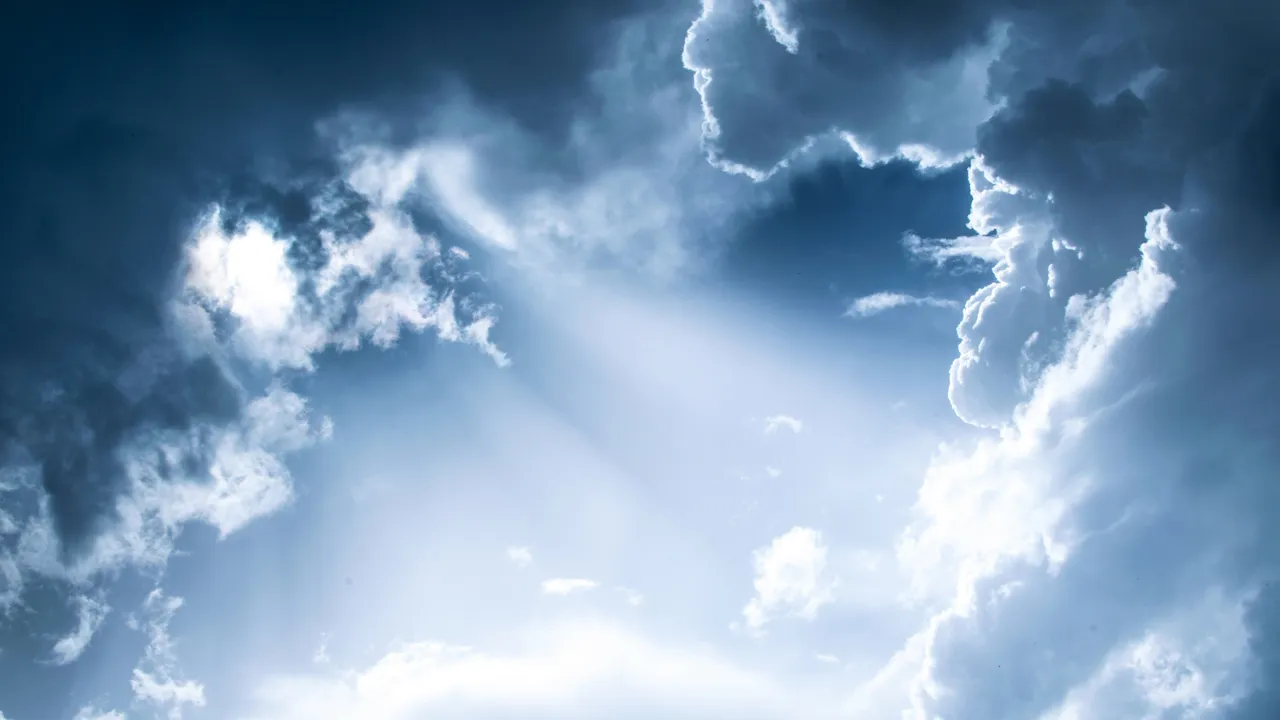
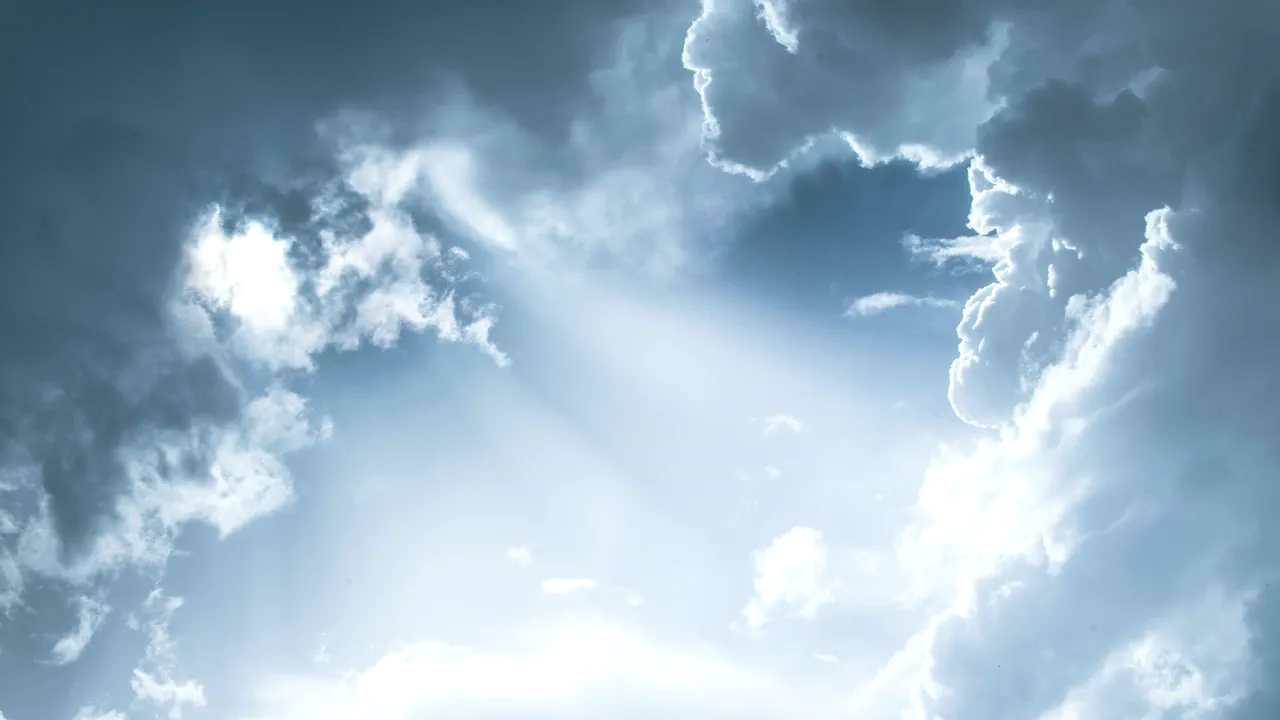
Fly through every chapter: lighter veil, scroll zoom, cloud bank
Each chapter's sky now zooms with its own scroll progress, a soft cloud
bank rises past the camera, and the veil is lighter so the photos show.
New skies for Experience, Work and Skills; the ascent gains an orbit
layer. Hover glows no longer cause sideways scroll on narrow screens.

diff --git a/site/css/site.css b/site/css/site.css
@@ -294,14 +294,19 @@ p { margin: 0; text-wrap: pretty; }
 }
 
 /* ---------- Atmosphere: fixed photographic layer under every chapter ---------- */
-[data-env="sky"] { --veil: rgba(238, 243, 248, .80); }
+[data-env="sky"] { --veil: rgba(238, 243, 248, .6); }
 [data-env="space"] { --veil: rgba(5, 7, 12, .74); }
 html { background: var(--space-ground); }
+main { overflow-x: clip; } /* hover glows spill 60px past edge elements; clip (not hidden) keeps sticky working */
 .atmos { position: fixed; inset: 0; z-index: -1; background: var(--sky-ground); overflow: hidden; }
-.atmos__img { position: absolute; inset: 0; width: 100%; height: 100%; object-fit: cover; opacity: 0; transform: scale(1.04); transition: opacity 2s var(--ease); will-change: opacity; }
+/* transform is set per frame from scroll in site.js (no transition: a transform transition made it jitter) */
+.atmos__img { position: absolute; inset: 0; width: 100%; height: 100%; object-fit: cover; opacity: 0; transform: scale(1.04); transform-origin: 50% 58%; transition: opacity 2s var(--ease); will-change: opacity, transform; }
 .atmos__img.is-on { opacity: 1; }
 .atmos.is-space { background: var(--space-ground); }
-@media (prefers-reduced-motion: reduce) { .atmos__img { transform: none; } }
+/* foreground cloud bank rising past the camera in every chapter */
+.atmos__fore { position: absolute; left: -5%; bottom: 0; width: 110%; height: 70%; max-width: none; object-fit: cover; opacity: 0; pointer-events: none; will-change: opacity, transform;
+  -webkit-mask-image: linear-gradient(transparent, #000 48%); mask-image: linear-gradient(transparent, #000 48%); }
+@media (prefers-reduced-motion: reduce) { .atmos__img { transform: none !important; } .atmos__fore { display: none; } }
 
 /* ---------- Scroll reveals, made visible: masked heading rise, staggered pop-up, image unveil ---------- */
 .js .rv { opacity: 0; transform: translate3d(0, 52px, 0) scale(.985); transition: opacity 1s var(--ease) var(--d, 0ms), transform 1.1s var(--ease) var(--d, 0ms); }
@@ -321,7 +326,7 @@ html { background: var(--space-ground); }
   -webkit-mask-image: linear-gradient(transparent, #000 45%); mask-image: linear-gradient(transparent, #000 45%);
   transform: translate3d(0, calc(var(--hp, 0) * -34vh), 0) scale(calc(1 + var(--hp, 0) * .3)); will-change: transform, opacity; }
 .hero__fog img { width: 100%; height: 100%; object-fit: cover; filter: brightness(1.15) contrast(1.1); }
-.zoomtrip { position: relative; height: 340vh; background: var(--space-ground); }
+.zoomtrip { position: relative; height: 440vh; background: var(--space-ground); }
 .zt__stage { position: sticky; top: 0; height: 100vh; height: 100svh; overflow: hidden; }
 .zt__layer { position: absolute; inset: 0; width: 100%; height: 100%; object-fit: cover; opacity: 0; will-change: transform, opacity; }
 .zt__layer[data-i="0"] { opacity: 1; }

diff --git a/site/index.html b/site/index.html
@@ -28,11 +28,12 @@
 <div class="atmos" aria-hidden="true">
   <img class="atmos__img " data-for="journey" data-src="assets/img/light-rays-1280.webp" data-src-lg="assets/img/light-rays-2560.webp" alt="">
   <img class="atmos__img " data-for="expertise" data-src="assets/img/sky-above-1280.webp" data-src-lg="assets/img/sky-above-2560.webp" alt="">
-  <img class="atmos__img" data-for="work" data-src="assets/img/pale-wisps-1280.webp" data-src-lg="assets/img/pale-wisps-2560.webp" alt="">
-  <img class="atmos__img" data-for="skills" data-src="assets/img/soft-cumulus-1280.webp" data-src-lg="assets/img/soft-cumulus-2560.webp" alt="">
-  <img class="atmos__img" data-for="experience" data-src="assets/img/orb-astronaut-1280.webp" data-src-lg="assets/img/orb-astronaut-2560.webp" alt="">
+  <img class="atmos__img" data-for="work" data-src="assets/img/rocket-plume-1280.webp" data-src-lg="assets/img/rocket-plume-2560.webp" alt="">
+  <img class="atmos__img" data-for="skills" data-src="assets/img/cloud-carpet-1280.webp" data-src-lg="assets/img/cloud-carpet-2560.webp" alt="">
+  <img class="atmos__img" data-for="experience" data-src="assets/img/astronaut-cliff-1280.webp" data-src-lg="assets/img/astronaut-cliff-2560.webp" alt="">
   <img class="atmos__img " data-for="beyond" data-src="assets/img/breakthrough-1280.webp" data-src-lg="assets/img/breakthrough-2560.webp" alt="">
   <img class="atmos__img " data-for="contact" data-src="assets/img/cloud-sea-1280.webp" data-src-lg="assets/img/cloud-sea-2560.webp" alt="">
+  <img class="atmos__fore" data-src="assets/img/soft-cumulus-1280.webp" data-src-lg="assets/img/soft-cumulus-2560.webp" alt="">
 </div>
 
 <header class="nav" data-nav>
@@ -242,9 +243,11 @@
       <img class="zt__layer" data-i="0" src="assets/img/peaks-1280.webp" srcset="assets/img/peaks-1280.webp 1280w, assets/img/peaks-2560.webp 2560w" sizes="100vw" alt="" decoding="async">
       <img class="zt__layer" data-i="1" src="assets/img/rays-above-1280.webp" srcset="assets/img/rays-above-1280.webp 1280w, assets/img/rays-above-2560.webp 2560w" sizes="100vw" alt="" decoding="async">
       <img class="zt__layer" data-i="2" src="assets/img/stars-clouds-1280.webp" srcset="assets/img/stars-clouds-1280.webp 1280w, assets/img/stars-clouds-2560.webp 2560w" sizes="100vw" alt="" decoding="async">
+      <img class="zt__layer" data-i="3" src="assets/img/earth-orbit-1280.webp" srcset="assets/img/earth-orbit-1280.webp 1280w, assets/img/earth-orbit-2560.webp 2560w" sizes="100vw" alt="" decoding="async">
       <p class="zt__cap" data-i="0">Above the clouds.</p>
       <p class="zt__cap" data-i="1">Through the light.</p>
-      <p class="zt__cap" data-i="2">Into the work.</p>
+      <p class="zt__cap" data-i="2">Past the stars.</p>
+      <p class="zt__cap" data-i="3">Into the work.</p>
     </div>
   </section>
 

diff --git a/site/js/site.js b/site/js/site.js
@@ -80,7 +80,7 @@
   }
   const log = $('[data-log]'), bands = $$('.band img'), mist = $('.mist');
   // atmosphere: one fixed photograph per chapter; each loads only when its chapter approaches
-  const atmos = $('.atmos'), aImgs = $$('.atmos__img'), aSecs = aImgs.map((im) => document.getElementById(im.dataset.for));
+  const atmos = $('.atmos'), fore = $('.atmos__fore'), aImgs = $$('.atmos__img'), aSecs = aImgs.map((im) => document.getElementById(im.dataset.for));
   const big = () => innerWidth * Math.min(2, devicePixelRatio || 1) > 1500;
   const load = (im) => { if (!im.getAttribute('src')) im.src = big() ? im.dataset.srcLg : im.dataset.src; };
   const toast = $('[data-toast]');
@@ -152,10 +152,19 @@
     }
     let on = -1; aR.forEach((r, i) => { if (r.top < vh * 0.6 && r.bottom > vh * 0.4) on = i; });
     if (on < 0) on = lastOn; else lastOn = on;
-    aR.forEach((r, i) => { if (r.top < vh * 2 && r.bottom > -vh) load(aImgs[i]); });
+    aR.forEach((r, i) => { if (r.top < vh * 2 && r.bottom > -vh) { load(aImgs[i]); if (fore && !reduce) load(fore); } });
+    // each chapter flies through its own sky: zoom follows that chapter's scroll progress directly (no lerp)
+    const prog = (r) => clamp((vh - r.top) / (vh + r.height));
     aImgs.forEach((im, i) => {
       im.classList.toggle('is-on', i === on);
+      const r = aR[i];
+      if (!reduce && r.top < vh * 2 && r.bottom > -vh) { const p = prog(r); im.style.transform = `scale(${(1.04 + p * .26).toFixed(4)}) translate3d(0, ${(-p * 2.5).toFixed(2)}%, 0)`; }
     });
+    if (fore && !reduce && on > -1) {
+      const q = prog(aR[on]);
+      fore.style.opacity = (Math.sin(Math.PI * q) * .55).toFixed(3);
+      fore.style.transform = `translate3d(0, ${((1 - q) * 30 - 10).toFixed(2)}vh, 0) scale(${(1 + q * .4).toFixed(4)})`;
+    }
     atmos.classList.toggle('is-space', on > -1 && aSecs[on].dataset.env === 'space');
     cases.forEach((c, i) => c.style.setProperty('--draw', reduce ? 1 : clamp((vh * 0.85 - cR[i].top) / (vh * 0.6)).toFixed(3)));
     if (sR) skyEl.style.setProperty('--sky-p', reduce ? 1 : clamp((vh - sR.top) / (vh * 0.9)).toFixed(3));
